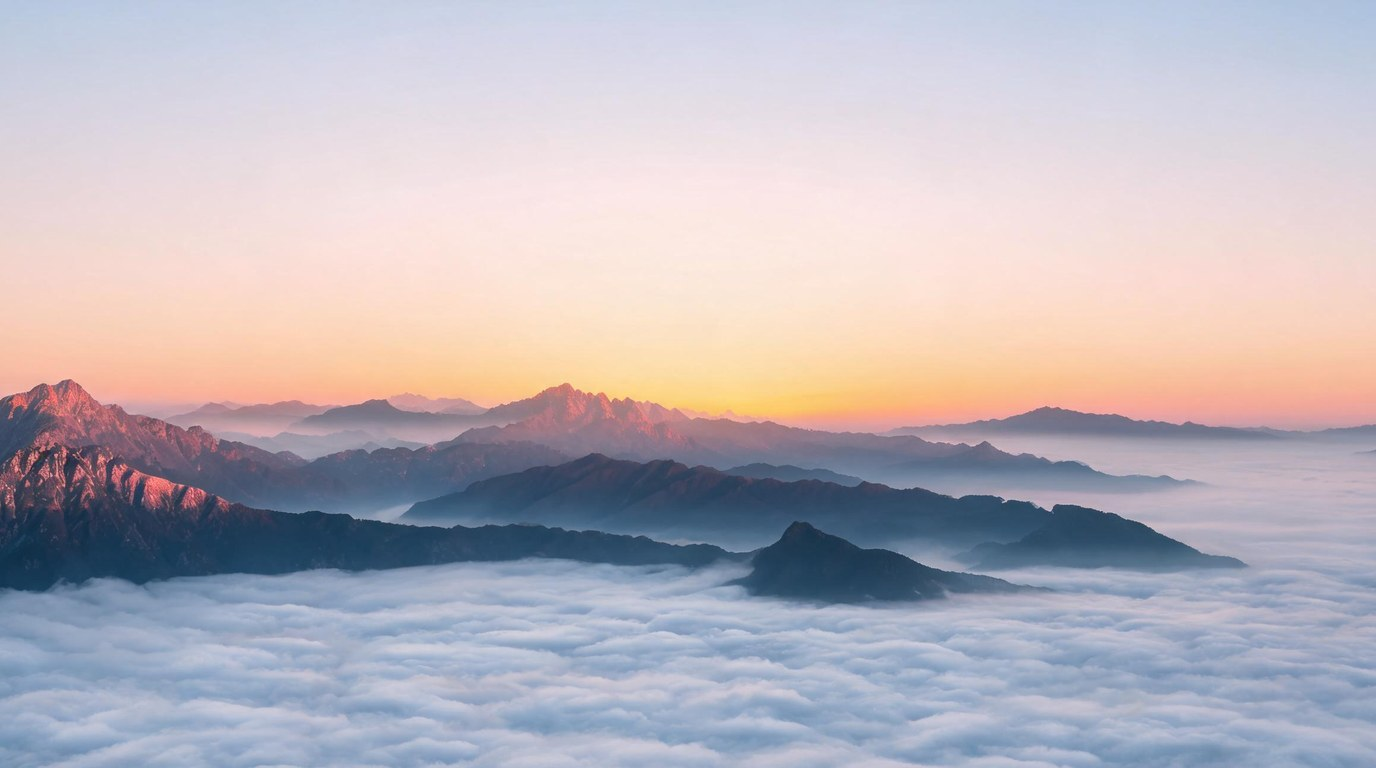
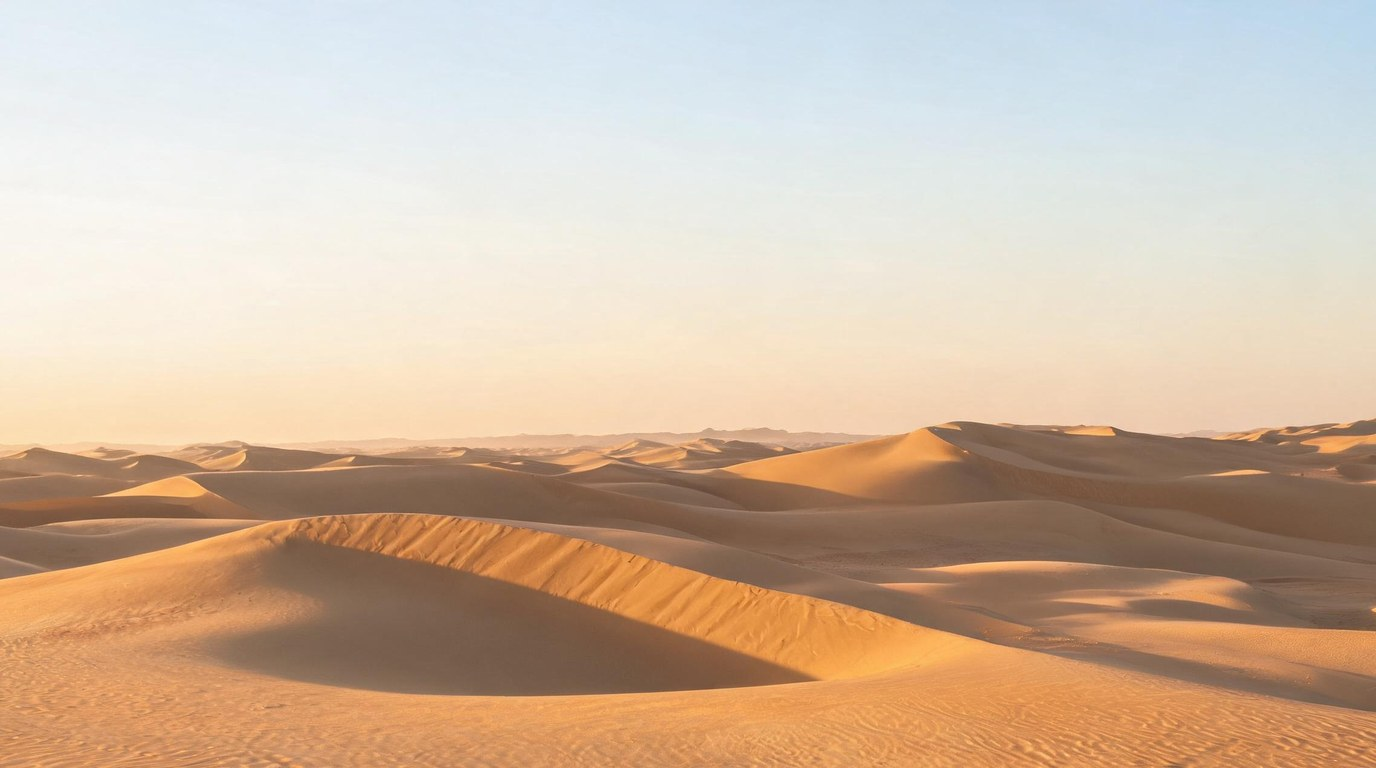
feat: update workspace

diff --git a/app.js b/app.js
@@ -6473,43 +6473,43 @@
     {
       id: 'waterfall',
       name: 'Hidden Forest Waterfall',
-      src: 'assets/nature/waterfall.jpg?v=20261029natureA',
-      desktopSrc: 'assets/nature/desktop_waterfall.jpg?v=20261029natureA',
+      src: 'assets/nature/waterfall.jpg?v=20261029natureB',
+      desktopSrc: 'assets/nature/desktop_waterfall.jpg?v=20261029natureB',
       vignette: 0.16
     },
     {
       id: 'forest',
       name: 'Misty Pine Forest',
-      src: 'assets/nature/forest.jpg?v=20261029natureA',
-      desktopSrc: 'assets/nature/desktop_forest.jpg?v=20261029natureA',
+      src: 'assets/nature/forest.jpg?v=20261029natureB',
+      desktopSrc: 'assets/nature/desktop_forest.jpg?v=20261029natureB',
       vignette: 0.16
     },
     {
       id: 'tropical_island',
       name: 'Tropical Island Sanctuary',
-      src: 'assets/nature/tropical_island.jpg?v=20261029natureA',
-      desktopSrc: 'assets/nature/desktop_tropical_island.jpg?v=20261029natureA',
+      src: 'assets/nature/tropical_island.jpg?v=20261029natureB',
+      desktopSrc: 'assets/nature/desktop_tropical_island.jpg?v=20261029natureB',
       vignette: 0.14
     },
     {
       id: 'bamboo_grove',
       name: 'Zen Bamboo Grove',
-      src: 'assets/nature/bamboo_grove.jpg?v=20261029natureA',
-      desktopSrc: 'assets/nature/desktop_bamboo_grove.jpg?v=20261029natureA',
+      src: 'assets/nature/bamboo_grove.jpg?v=20261029natureB',
+      desktopSrc: 'assets/nature/desktop_bamboo_grove.jpg?v=20261029natureB',
       vignette: 0.15
     },
     {
       id: 'mountain_sunrise',
-      name: 'Mountain Sunrise',
-      src: 'assets/nature/mountain_sunrise.jpg?v=20261029natureA',
-      desktopSrc: 'assets/nature/desktop_mountain_sunrise.jpg?v=20261029natureA',
+      name: 'Golden Desert Dunes',
+      src: 'assets/nature/mountain_sunrise.jpg?v=20261029natureB',
+      desktopSrc: 'assets/nature/desktop_mountain_sunrise.jpg?v=20261029natureB',
       vignette: 0.15
     },
     {
       id: 'alpine_lake',
       name: 'Alpine Lake Mirror',
-      src: 'assets/nature/alpine_lake.jpg?v=20261029natureA',
-      desktopSrc: 'assets/nature/desktop_alpine_lake.jpg?v=20261029natureA',
+      src: 'assets/nature/alpine_lake.jpg?v=20261029natureB',
+      desktopSrc: 'assets/nature/desktop_alpine_lake.jpg?v=20261029natureB',
       vignette: 0.14
     }
   ];

diff --git a/public/app.js b/public/app.js
@@ -6473,43 +6473,43 @@
     {
       id: 'waterfall',
       name: 'Hidden Forest Waterfall',
-      src: 'assets/nature/waterfall.jpg?v=20261029natureA',
-      desktopSrc: 'assets/nature/desktop_waterfall.jpg?v=20261029natureA',
+      src: 'assets/nature/waterfall.jpg?v=20261029natureB',
+      desktopSrc: 'assets/nature/desktop_waterfall.jpg?v=20261029natureB',
       vignette: 0.16
     },
     {
       id: 'forest',
       name: 'Misty Pine Forest',
-      src: 'assets/nature/forest.jpg?v=20261029natureA',
-      desktopSrc: 'assets/nature/desktop_forest.jpg?v=20261029natureA',
+      src: 'assets/nature/forest.jpg?v=20261029natureB',
+      desktopSrc: 'assets/nature/desktop_forest.jpg?v=20261029natureB',
       vignette: 0.16
     },
     {
       id: 'tropical_island',
       name: 'Tropical Island Sanctuary',
-      src: 'assets/nature/tropical_island.jpg?v=20261029natureA',
-      desktopSrc: 'assets/nature/desktop_tropical_island.jpg?v=20261029natureA',
+      src: 'assets/nature/tropical_island.jpg?v=20261029natureB',
+      desktopSrc: 'assets/nature/desktop_tropical_island.jpg?v=20261029natureB',
       vignette: 0.14
     },
     {
       id: 'bamboo_grove',
       name: 'Zen Bamboo Grove',
-      src: 'assets/nature/bamboo_grove.jpg?v=20261029natureA',
-      desktopSrc: 'assets/nature/desktop_bamboo_grove.jpg?v=20261029natureA',
+      src: 'assets/nature/bamboo_grove.jpg?v=20261029natureB',
+      desktopSrc: 'assets/nature/desktop_bamboo_grove.jpg?v=20261029natureB',
       vignette: 0.15
     },
     {
       id: 'mountain_sunrise',
-      name: 'Mountain Sunrise',
-      src: 'assets/nature/mountain_sunrise.jpg?v=20261029natureA',
-      desktopSrc: 'assets/nature/desktop_mountain_sunrise.jpg?v=20261029natureA',
+      name: 'Golden Desert Dunes',
+      src: 'assets/nature/mountain_sunrise.jpg?v=20261029natureB',
+      desktopSrc: 'assets/nature/desktop_mountain_sunrise.jpg?v=20261029natureB',
       vignette: 0.15
     },
     {
       id: 'alpine_lake',
       name: 'Alpine Lake Mirror',
-      src: 'assets/nature/alpine_lake.jpg?v=20261029natureA',
-      desktopSrc: 'assets/nature/desktop_alpine_lake.jpg?v=20261029natureA',
+      src: 'assets/nature/alpine_lake.jpg?v=20261029natureB',
+      desktopSrc: 'assets/nature/desktop_alpine_lake.jpg?v=20261029natureB',
       vignette: 0.14
     }
   ];

diff --git a/index.html b/index.html
@@ -20,7 +20,7 @@
   <link rel="preconnect" href="https://fonts.googleapis.com">
   <link rel="preconnect" href="https://fonts.gstatic.com" crossorigin>
   <link href="https://fonts.googleapis.com/css2?family=Cinzel:wght@400;600;700&family=Instrument+Serif:ital@0;1&family=Barlow:wght@300;400;500;600&family=Inter:wght@300;400;500;600&display=swap" rel="stylesheet">
-  <link rel="stylesheet" href="styles.css?v=20261029natureA">
+  <link rel="stylesheet" href="styles.css?v=20261029natureB">
   <style id="luminara-styles">
 /* ════════════════════════════════════════════════════════════════
    Alyema — Multi-Theme Design System
@@ -5109,7 +5109,7 @@ html.device-desktop #tab-goals .form-card, html.device-desktop #tab-future .form
 
   </div>
 
-  <script src="app.js?v=20261029natureA" defer></script>
+  <script src="app.js?v=20261029natureB" defer></script>
 
   <!-- 空输入轻提示：点击空输入的生成按钮时，在按钮旁弹出，3 秒自动消失，点击可关闭 -->
   <div id="inputNudge" class="input-nudge hidden" role="status" aria-live="polite">

diff --git a/public/index.html b/public/index.html
@@ -20,7 +20,7 @@
   <link rel="preconnect" href="https://fonts.googleapis.com">
   <link rel="preconnect" href="https://fonts.gstatic.com" crossorigin>
   <link href="https://fonts.googleapis.com/css2?family=Cinzel:wght@400;600;700&family=Instrument+Serif:ital@0;1&family=Barlow:wght@300;400;500;600&family=Inter:wght@300;400;500;600&display=swap" rel="stylesheet">
-  <link rel="stylesheet" href="styles.css?v=20261029natureA">
+  <link rel="stylesheet" href="styles.css?v=20261029natureB">
   <style id="luminara-styles">
 /* ════════════════════════════════════════════════════════════════
    Alyema — Multi-Theme Design System
@@ -5109,7 +5109,7 @@ html.device-desktop #tab-goals .form-card, html.device-desktop #tab-future .form
 
   </div>
 
-  <script src="app.js?v=20261029natureA" defer></script>
+  <script src="app.js?v=20261029natureB" defer></script>
 
   <!-- 空输入轻提示：点击空输入的生成按钮时，在按钮旁弹出，3 秒自动消失，点击可关闭 -->
   <div id="inputNudge" class="input-nudge hidden" role="status" aria-live="polite">
